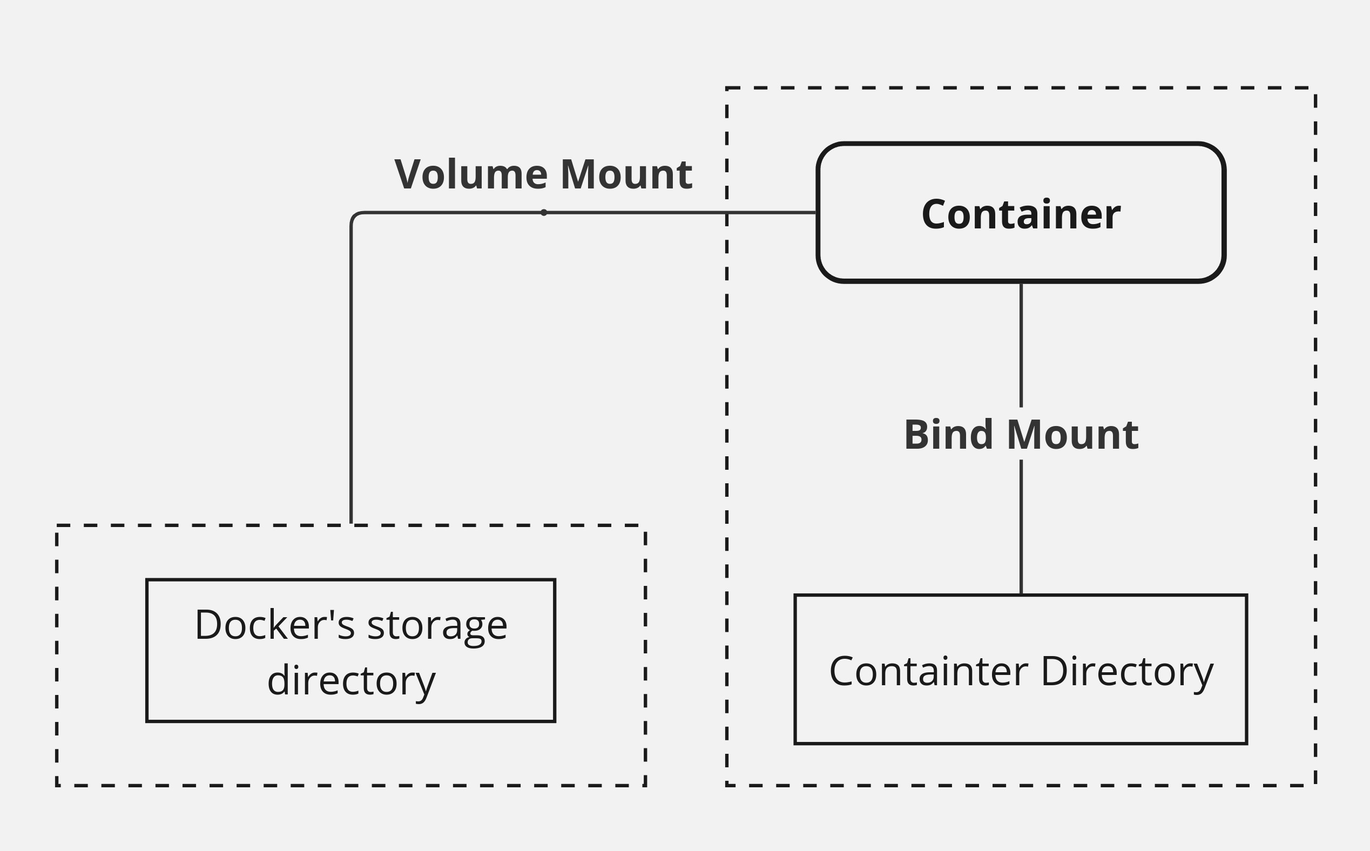
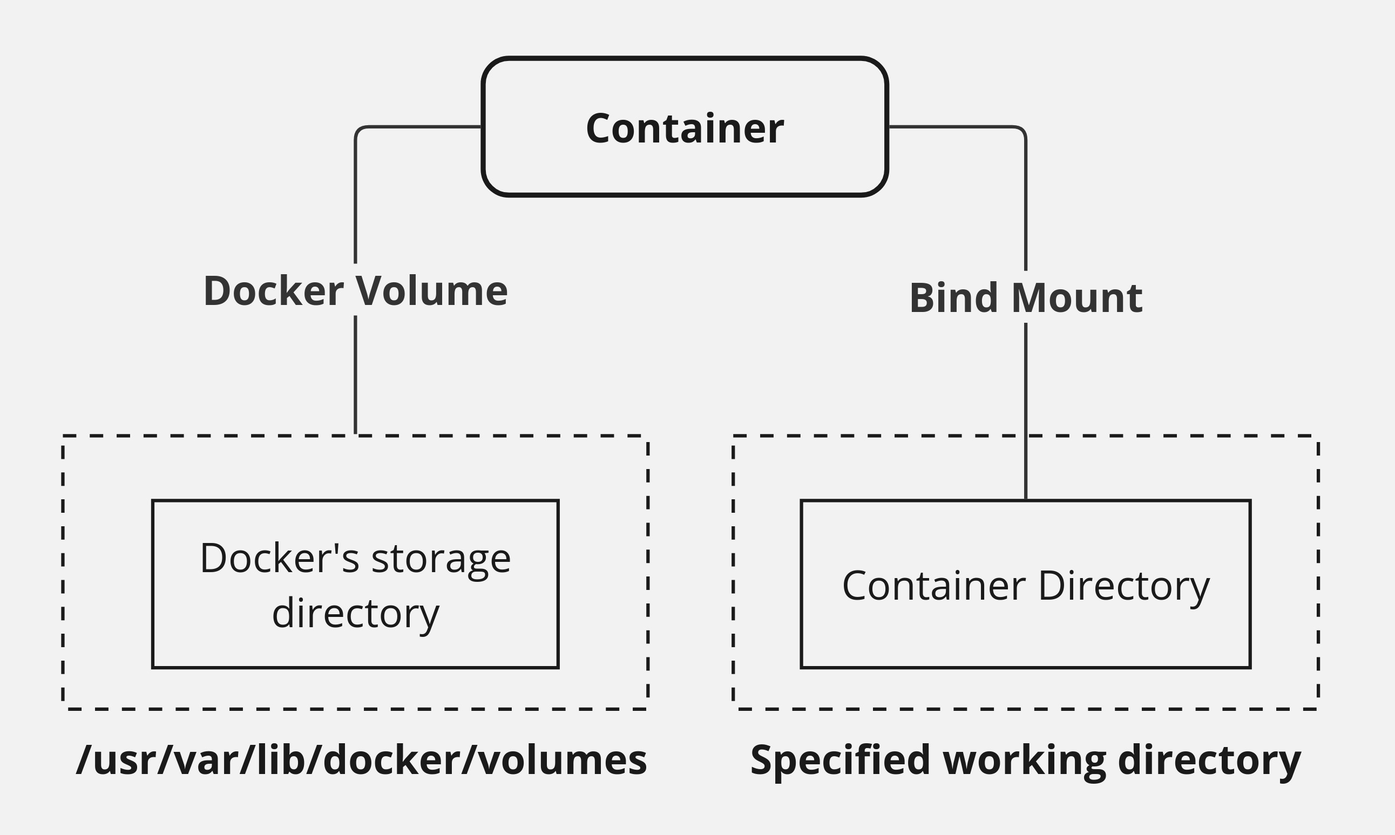
docker persistent storage context rewrite

diff --git a/public/posts/you_should_dockerize_everything_now/index.html b/public/posts/you_should_dockerize_everything_now/index.html
@@ -113,8 +113,8 @@
   "keywords": [
     "tech", "docker"
   ],
-  "articleBody": " After a few days of playing around with Docker. I think my experience on this platform would be somewhat useful to share.\nThis serve as a guide into running simple Docker containers. It’s not a comprehensive guide but rather a detailed one.\nWhat is Docker? Docker is an open-source platform designed to automate the deployment, scaling and management of applications in lightweight Containers - a form of virtualization that allows the packaging of an application along with all of its dependencies into a single package that can run seamlessly across machines with different hardware configurations.\nWhy Docker? I personally find these to be the biggest benefits when using Docker.\nConsistent Environment: Using containers, Docker ensures that if an application works on the development machine, it can work the same way in other machines. Help avoiding the classic situation “But…It worked on my machine!”. Compared to Virtual Machines (VM): Docker containers are much more lightweight and easy to manage than VMs because they somewhat represent a stripped down version of a VM while sharing the host OS kernel instead of using their own, mitigating the overhead. Version control and rollbacks: Docker images can be versioned, allowing developers to track changes and roll back to previous versions if something goes wrong. Some situations you can use Docker Development environment consistency: let’s say you’re working on a group project that requires specific versions of programming languages, databases or other dependencies. Instead of installing everything directly on your system, you can use Docker to create a consistent environment that can be reproduced and shared with others effortlessly. It prevents “works on my machine” issues. Playing around with new technologies: You want to try out a new batabase, web server or a python module. Instead of installing it directly on your system, you can test it out in a Docker container. This avoids cluttering your system with new software that you’re not sure if you would ever need again, and allows for easy cleanup after finish experimenting. Running multiple projects without conflicting dependencies: You have two different projects that require different versions of Python. Docker can wrap them up in their own environment and neither will conflict with each other. The Architecture In order to run a basic application inside a Docker container, 3 of these concepts are involved: Dockerfile - the blueprint that tells Docker how to handle you applications, including installing dependencies and configure its behaviour. Docker image - the executable package, built from Dockerfile that contains everything your application need to get runnning. Docker container - the runtime instance, when you run the Docker image, it creates a container, which is the actual environment where your application runs. Additionally:\nDocker Registry is a service that stores Docker Images. Docker Hub is the default public registry, but you can also set up private registries for internal use.\nDocker Compose is a tool for defining and running multi-container Docker applications. With Compose, you use a YAML file to configure your application’s services and behaviours. Then, with a single command, you create and start all the services from your configuration.\nHow it works Docker uses a client-server architecture. The Docker client talks to the Docker daemon, which does the heavy lifting of building, running, and distributing your Docker containers.\nClient side User interacts with Docker CLI or Docker Desktop, were they can build, run, and manage Docker containers. Server side Commands from Client side will be received and processed by Docker API, which is a RESTful API that provides a way for clients to communicate with the Docker Daemon - a running service of Docker, goes by the name of dockerd. Docker Daemon is responsible for creating, running, and managing Docker containers. Start Docking We will learn how to dockerize a simple python program and deploy its container.\nCreate a structural directory for building Docker image Below serves as a simple file organization for Docker to build from your source.\napplication_name/ ├── Dockerfile ├── requirements.txt └── source.py In which:\nDockerfile: It contains instructions for Docker engine to start installing dependencies and building your containers. The file name is mandatory and case sensitive, make sure to create the file with the exact name, or else Docker won’t recognize it as a Dockerfile. requirements.txt: is a simple text file listing the names of required Python libraries. source.py: contains the source code for your Python application. [source.py] Putting code into your Python application You can use your own code and libraries, or use this sample code:\n1 2 3 4 5 6 7 8 9 from sympy import Matrix, pprint def multiplyMatrix(A, B): if len(A[0]) != len(B): return None return [[sum(a*b for a,b in zip(A_row,B_col)) for B_col in zip(*B)] for A_row in A] matrix = Matrix(multiplyMatrix([[1,2],[3,4]],[[1,2],[3,4]])) pprint(matrix) Import Matrix and pprint from sympy to convert a 2D array into matrix and print it. Define the function multiplyMatrix(). Create a matrix object which holds the value of 2 matrices multiplied with each other. Use pprint() to print out the matrix into the console. [requirements.txt] List your application’s dependencies From the above python script, sympy is required to run the program. In order for Docker to install dependencies, we need to put the names of those libraries into requirements.txt:\nsympy Simple as that, we have included everything our script need to run.\nIn Python, installing multiple libraries can be done by using pip on a text file that lists the included libraries, each sitting on their own line.\n[Dockerfile] Configure Dockerfile behaviour Now that we have setup everything. It’s time to configure how Docker will build your application into an image.\nFROM python:latest WORKDIR /app COPY requirements.txt . RUN pip install --no-cache-dir -r requirements.txt COPY . . CMD [\"python\", \"source.py\"] FROM: specifies the base image to build upon. In this case, we use the latest Python image. This line will pull the latest Python image from Docker Hub to build everything else. The base image is the starting point for the Dockerfile. It can be any image available on Docker Hub or a custom image you have created. WORKDIR: sets the working directory inside the container. By default, we use /app. COPY: copies files from the host machine to the container. We copy requirements.txt to the working directory. RUN: executes a command inside the container. Here, we install the dependencies listed in requirements.txt by using Python’s package manager pip. COPY . .: copies the rest of the files from the host machine to the container. CMD: specifies the command to run when the container starts. In this case, we run the Python script source.py. Building Docker image After setting up the Dockerfile, we can now build the Docker image.\nYour terminal location must be in the same directory where the file Dockerfile is located so Docker engine can detect that file and executing the process.\ndocker build -t : . -t :: This flags tags the image with a name and an optional tag. The tag is used to differentiate between different versions of the same image. If not specified, Docker will default to latest. .: specifies the build context. Docker will look for the Dockerfile in the current directory. Additionally, you can add --no-cache to the build command to force Docker to rebuild the image from scratch if the previously built image is broken during the process. If not specified, Docker will reuse the cache to speed up the build process.\nExample:\ndocker build -t matrix-multiplication:1.0 --no-cache . Once the build is complete, you can verify that the image has been created by listing all Docker images:\ndocker images The result should be similar to this:\n\u003e docker images REPOSITORY TAG IMAGE ID CREATED SIZE matrix-multiplication 1.0 7565e3e77b8a 11 seconds ago 1.1GB Deploying a Container from the built Image To deploy the newly built image, simply use docker run command:\ndocker run You can replace with which is the ID of the image listed in docker images command. Example:\ndocker run matrix-multiplication You can also choose to run a specific version of your image by adding to the image name, similar to the build command.\nTo see which container is running, use:\ndocker ps Or to see all containers created, including those that have stopped, use:\ndocker ps -a Docker Container Data In order to store data, a Docker container has 2 ways to mount its working directory to the host machine’s filesystem: Bind Mount and Volume Mount.\nBind Mount is the default method of mounting for containers. It links a directory in the container to a directory on the host machine. This allows the container to read and write data to the host machine’s filesystem.\nDue to Docker containers being ephemeral, which mean they are designed to be disposable, data stored with Bind Mount method will be deleted after a container is stopped.\nVolume Mount is a better way to persist data. It creates a new directory within Docker’s storage directory on the host machine, and mounts it to the container. This way, the data is stored in the host machine’s filesystem, but is managed by Docker and will not be deleted when the container ends its cycle.\nTo create a Docker Volume, you can use the command:\ndocker volume create To see created Volumes, use:\ndocker volume ls To remove a volume, use:\ndocker volume rm More Docker commands docker start : starts a stopped container. You can find the container ID by using docker ps.\ndocker stop : stops a running container.\ndocker attach : attaches your terminal to a running container.\ndocker rm : removes a container from your local machine.\ndocker rmi or docker rmi : removes an image from your local machine.\nMore docker run tags -d: enables docker to run in detach mode, meaning the container will run in the background. This is useful for running services or applications that you want to keep running in the background while continue to use your terminal.\n--name : assign a name of choice to the container.\n-p :: maps a port from the host machine to the container. This is useful when you want to access a service running inside the container from the host machine.\nExample: -p 8080:80 maps port 8080 on the host to port 80 in the container. --rm: Automatically removes the container when it exits. Useful for running short-lived containers.\n-it: combines 2 flags:\n-i(interactive): keeps STDIN open even if not attached to the container. Useful for interacting with a container in real time, such as entering commands or running a shell inside the container. -t(TTY): allocates a pseudo-TTY (a terminal interface). This makes the container behave like a terminal session, allowing you to interact with it as if it were a CLI(command line interface). Combining -i and -t allows you to run a container in interactive mode with a TTY. It’s equivalent to saying “keep the input open (-i) and give me a terminal interface (-t)”. -v :: mounts a volume from the host machine to the container.\nExample: -v /path/on/host:/path/on/container mounts the /path/on/host directory on the host to the /path/on/container directory in the container. ",
-  "wordCount" : "1853",
+  "articleBody": " After a few days of playing around with Docker. I think my experience on this platform would be somewhat useful to share.\nThis serve as a guide into running simple Docker containers. It’s not a comprehensive guide but rather a detailed one.\nWhat is Docker? Docker is an open-source platform designed to automate the deployment, scaling and management of applications in lightweight Containers - a form of virtualization that allows the packaging of an application along with all of its dependencies into a single package that can run seamlessly across machines with different hardware configurations.\nWhy Docker? I personally find these to be the biggest benefits when using Docker.\nConsistent Environment: Using containers, Docker ensures that if an application works on the development machine, it can work the same way in other machines. Help avoiding the classic situation “But…It worked on my machine!”. Compared to Virtual Machines (VM): Docker containers are much more lightweight and easy to manage than VMs because they somewhat represent a stripped down version of a VM while sharing the host OS kernel instead of using their own, mitigating the overhead. Version control and rollbacks: Docker images can be versioned, allowing developers to track changes and roll back to previous versions if something goes wrong. Some situations you can use Docker Development environment consistency: let’s say you’re working on a group project that requires specific versions of programming languages, databases or other dependencies. Instead of installing everything directly on your system, you can use Docker to create a consistent environment that can be reproduced and shared with others effortlessly. It prevents “works on my machine” issues. Playing around with new technologies: You want to try out a new batabase, web server or a python module. Instead of installing it directly on your system, you can test it out in a Docker container. This avoids cluttering your system with new software that you’re not sure if you would ever need again, and allows for easy cleanup after finish experimenting. Running multiple projects without conflicting dependencies: You have two different projects that require different versions of Python. Docker can wrap them up in their own environment and neither will conflict with each other. The Architecture In order to run a basic application inside a Docker container, 3 of these concepts are involved: Dockerfile - the blueprint that tells Docker how to handle you applications, including installing dependencies and configure its behaviour. Docker image - the executable package, built from Dockerfile that contains everything your application need to get runnning. Docker container - the runtime instance, when you run the Docker image, it creates a container, which is the actual environment where your application runs. Additionally:\nDocker Registry is a service that stores Docker Images. Docker Hub is the default public registry, but you can also set up private registries for internal use.\nDocker Compose is a tool for defining and running multi-container Docker applications. With Compose, you use a YAML file to configure your application’s services and behaviours. Then, with a single command, you create and start all the services from your configuration.\nHow it works Docker uses a client-server architecture. The Docker client talks to the Docker daemon, which does the heavy lifting of building, running, and distributing your Docker containers.\nClient side User interacts with Docker CLI or Docker Desktop, were they can build, run, and manage Docker containers. Server side Commands from Client side will be received and processed by Docker API, which is a RESTful API that provides a way for clients to communicate with the Docker Daemon - a running service of Docker, goes by the name of dockerd. Docker Daemon is responsible for creating, running, and managing Docker containers. Start Docking We will learn how to dockerize a simple python program and deploy its container.\nCreate a structural directory for building Docker image Below serves as a simple file organization for Docker to build from your source.\napplication_name/ ├── Dockerfile ├── requirements.txt └── source.py In which:\nDockerfile: It contains instructions for Docker engine to start installing dependencies and building your containers. The file name is mandatory and case sensitive, make sure to create the file with the exact name, or else Docker won’t recognize it as a Dockerfile. requirements.txt: is a simple text file listing the names of required Python libraries. source.py: contains the source code for your Python application. [source.py] Putting code into your Python application You can use your own code and libraries, or use this sample code:\n1 2 3 4 5 6 7 8 9 from sympy import Matrix, pprint def multiplyMatrix(A, B): if len(A[0]) != len(B): return None return [[sum(a*b for a,b in zip(A_row,B_col)) for B_col in zip(*B)] for A_row in A] matrix = Matrix(multiplyMatrix([[1,2],[3,4]],[[1,2],[3,4]])) pprint(matrix) Import Matrix and pprint from sympy to convert a 2D array into matrix and print it. Define the function multiplyMatrix(). Create a matrix object which holds the value of 2 matrices multiplied with each other. Use pprint() to print out the matrix into the console. [requirements.txt] List your application’s dependencies From the above python script, sympy is required to run the program. In order for Docker to install dependencies, we need to put the names of those libraries into requirements.txt:\nsympy Simple as that, we have included everything our script need to run.\nIn Python, installing multiple libraries can be done by using pip on a text file that lists the included libraries, each sitting on their own line.\n[Dockerfile] Configure Dockerfile behaviour Now that we have setup everything. It’s time to configure how Docker will build your application into an image.\nFROM python:latest WORKDIR /app COPY requirements.txt . RUN pip install --no-cache-dir -r requirements.txt COPY . . CMD [\"python\", \"source.py\"] FROM: specifies the base image to build upon. In this case, we use the latest Python image. This line will pull the latest Python image from Docker Hub to build everything else. The base image is the starting point for the Dockerfile. It can be any image available on Docker Hub or a custom image you have created. WORKDIR: sets the working directory inside the container. By default, we use /app. COPY: copies files from the host machine to the container. We copy requirements.txt to the working directory. RUN: executes a command inside the container. Here, we install the dependencies listed in requirements.txt by using Python’s package manager pip. COPY . .: copies the rest of the files from the host machine to the container. CMD: specifies the command to run when the container starts. In this case, we run the Python script source.py. Building Docker image After setting up the Dockerfile, we can now build the Docker image.\nYour terminal location must be in the same directory where the file Dockerfile is located so Docker engine can detect that file and executing the process.\ndocker build -t : . -t :: This flags tags the image with a name and an optional tag. The tag is used to differentiate between different versions of the same image. If not specified, Docker will default to latest. .: specifies the build context. Docker will look for the Dockerfile in the current directory. Additionally, you can add --no-cache to the build command to force Docker to rebuild the image from scratch if the previously built image is broken during the process. If not specified, Docker will reuse the cache to speed up the build process.\nExample:\ndocker build -t matrix-multiplication:1.0 --no-cache . Once the build is complete, you can verify that the image has been created by listing all Docker images:\ndocker images The result should be similar to this:\n\u003e docker images REPOSITORY TAG IMAGE ID CREATED SIZE matrix-multiplication 1.0 7565e3e77b8a 11 seconds ago 1.1GB Deploying a Container from the built Image To deploy the newly built image, simply use docker run command:\ndocker run You can replace with which is the ID of the image listed in docker images command. Example:\ndocker run matrix-multiplication You can also choose to run a specific version of your image by adding to the image name, similar to the build command.\nTo see which container is running, use:\ndocker ps Or to see all containers created, including those that have stopped, use:\ndocker ps -a Docker Container Data Due to Docker containers being ephemeral, which mean they are designed to be disposable, data created withing the process of running will be delete after a container ends its cycle.\nThere will be situations where you need data persistence. In order to do so, a Docker container has 2 ways to mount its working directory to the host machine’s filesystem: Bind Mount and Docker Volume.\nThe differences It may seems like both methods serve the same purpose, but there are some differences between them:\nFeature Bind Mount Docker Volume Binding method Links a directory in the container to specified directory on the host machine Links a directory in the container to a Docker Volume (in Linux, they are usually located at /var/lib/docker/volumes/) Data Persistence Data is stored in the host machine’s filesystem Data is stored in the Docker Volume Security Less secure as it can access the host machine’s filesystem, any changes made to the container directory will be seen directly on the filesystem More secure as it is abstracted away from the host machine’s filesystem Use case Useful for development purpose as binded data can be modified outside of the container Useful for production purpose as it is more secure and isolated To create a Docker Volume, you can use the command:\ndocker volume create To see created Volumes, use:\ndocker volume ls To see info about a Volume, use:\ndocker volume inspect To remove a volume, use:\ndocker volume rm More Docker commands docker start : starts a stopped container. You can find the container ID by using docker ps.\ndocker stop : stops a running container.\ndocker attach : attaches your terminal to a running container.\ndocker rm : removes a container from your local machine.\ndocker rmi or docker rmi : removes an image from your local machine.\nMore docker run tags -d: enables docker to run in detach mode, meaning the container will run in the background. This is useful for running services or applications that you want to keep running in the background while continue to use your terminal.\n--name : assign a name of choice to the container.\n-p :: maps a port from the host machine to the container. This is useful when you want to access a service running inside the container from the host machine.\nExample: -p 8080:80 maps port 8080 on the host to port 80 in the container. --rm: Automatically removes the container when it exits. Useful for running short-lived containers.\n-it: combines 2 flags:\n-i(interactive): keeps STDIN open even if not attached to the container. Useful for interacting with a container in real time, such as entering commands or running a shell inside the container. -t(TTY): allocates a pseudo-TTY (a terminal interface). This makes the container behave like a terminal session, allowing you to interact with it as if it were a CLI(command line interface). Combining -i and -t allows you to run a container in interactive mode with a TTY. It’s equivalent to saying “keep the input open (-i) and give me a terminal interface (-t)”. -v :: mounts a volume from the host machine to the container.\nExample: -v /path/on/host:/path/on/container mounts the /path/on/host directory on the host to the /path/on/container directory in the container. ",
+  "wordCount" : "1920",
   "inLanguage": "en",
   "image":"https://tiamatt.dev/docker101/docker101.jpg","datePublished": "2024-09-04T08:02:50+07:00",
   "dateModified": "2024-09-04T08:02:50+07:00",
@@ -204,7 +204,7 @@
     <h1 class="post-title entry-hint-parent">
       You should Dockerize everything, NOW!
     </h1>
-    <div class="post-meta"><span title='2024-09-04 08:02:50 +0700 +07'>September 4, 2024</span>&nbsp;·&nbsp;9 min&nbsp;·&nbsp;T
+    <div class="post-meta"><span title='2024-09-04 08:02:50 +0700 +07'>September 4, 2024</span>&nbsp;·&nbsp;10 min&nbsp;·&nbsp;T
 
 </div>
   </header> 
@@ -259,7 +259,13 @@
                         </ul>
                     </li>
                     <li>
-                        <a href="#docker-container-data" aria-label="Docker Container Data">Docker Container Data</a></li>
+                        <a href="#docker-container-data" aria-label="Docker Container Data">Docker Container Data</a><ul>
+                            <ul>
+                            
+                    <li>
+                        <a href="#the-differences" aria-label="The differences">The differences</a></li></ul>
+                        </ul>
+                    </li>
                     <li>
                         <a href="#more-docker-commands" aria-label="More Docker commands">More Docker commands</a></li>
                     <li>
@@ -500,18 +506,51 @@ Example:</p>
 <div class="highlight"><pre tabindex="0" style="color:#f8f8f2;background-color:#272822;-moz-tab-size:4;-o-tab-size:4;tab-size:4;"><code class="language-bash" data-lang="bash"><span style="display:flex;"><span>docker ps -a
 </span></span></code></pre></div><hr>
 <h1 id="docker-container-data">Docker Container Data<a hidden class="anchor" aria-hidden="true" href="#docker-container-data">#</a></h1>
-<p>In order to store data, a Docker container has 2 ways to mount its working directory to the host machine&rsquo;s filesystem: <strong>Bind Mount</strong> and <strong>Volume Mount</strong>.</p>
+<blockquote>
+<p>Due to Docker containers being <em>ephemeral</em>, which mean they are designed to be disposable, data created withing the process of running will be delete after a container ends its cycle.</p>
+</blockquote>
+<p>There will be situations where you need data persistence. In order to do so, a Docker container has 2 ways to mount its working directory to the host machine&rsquo;s filesystem: <strong>Bind Mount</strong> and <strong>Docker Volume</strong>.</p>
 <p><img loading="lazy" src="/docker101/container_data.jpg" alt="container_data"  />
 </p>
-<p><strong>Bind Mount</strong> is the default method of mounting for containers. It links a directory <strong>in the container</strong> to a directory on the <strong>host machine</strong>. This allows the container to read and write data to the host machine&rsquo;s filesystem.</p>
-<blockquote>
-<p>Due to Docker containers being <em>ephemeral</em>, which mean they are designed to be disposable, data stored with <strong>Bind Mount</strong> method will be deleted after a container is stopped.</p>
-</blockquote>
-<p><strong>Volume Mount</strong> is a better way to persist data. It creates a new directory within Docker&rsquo;s storage directory on the host machine, and mounts it to the container. This way, the data is stored in the host machine&rsquo;s filesystem, but is managed by Docker and will not be deleted when the container ends its cycle.</p>
+<h3 id="the-differences">The differences<a hidden class="anchor" aria-hidden="true" href="#the-differences">#</a></h3>
+<p>It may seems like both methods serve the same purpose, but there are some differences between them:</p>
+<table>
+  <thead>
+      <tr>
+          <th style="text-align: left">Feature</th>
+          <th style="text-align: left">Bind Mount</th>
+          <th style="text-align: left">Docker Volume</th>
+      </tr>
+  </thead>
+  <tbody>
+      <tr>
+          <td style="text-align: left"><strong>Binding method</strong></td>
+          <td style="text-align: left">Links a directory <strong>in the container</strong> to specified directory on the <strong>host machine</strong></td>
+          <td style="text-align: left">Links a directory <strong>in the container</strong> to a <strong>Docker Volume</strong> (in Linux, they are usually located at <code>/var/lib/docker/volumes/</code>)</td>
+      </tr>
+      <tr>
+          <td style="text-align: left"><strong>Data Persistence</strong></td>
+          <td style="text-align: left">Data is stored in the <strong>host machine</strong>&rsquo;s filesystem</td>
+          <td style="text-align: left">Data is stored in the <strong>Docker Volume</strong></td>
+      </tr>
+      <tr>
+          <td style="text-align: left"><strong>Security</strong></td>
+          <td style="text-align: left">Less secure as it can access the host machine&rsquo;s filesystem, any changes made to the container directory will be seen directly on the filesystem</td>
+          <td style="text-align: left">More secure as it is abstracted away from the host machine&rsquo;s filesystem</td>
+      </tr>
+      <tr>
+          <td style="text-align: left"><strong>Use case</strong></td>
+          <td style="text-align: left">Useful for development purpose as binded data can be modified outside of the container</td>
+          <td style="text-align: left">Useful for production purpose as it is more secure and isolated</td>
+      </tr>
+  </tbody>
+</table>
 <p>To create a <strong>Docker Volume</strong>, you can use the command:</p>
 <div class="highlight"><pre tabindex="0" style="color:#f8f8f2;background-color:#272822;-moz-tab-size:4;-o-tab-size:4;tab-size:4;"><code class="language-bash" data-lang="bash"><span style="display:flex;"><span>docker volume create &lt;volume_name&gt;
 </span></span></code></pre></div><p>To see created Volumes, use:</p>
 <div class="highlight"><pre tabindex="0" style="color:#f8f8f2;background-color:#272822;-moz-tab-size:4;-o-tab-size:4;tab-size:4;"><code class="language-bash" data-lang="bash"><span style="display:flex;"><span>docker volume ls
+</span></span></code></pre></div><p>To see info about a Volume, use:</p>
+<div class="highlight"><pre tabindex="0" style="color:#f8f8f2;background-color:#272822;-moz-tab-size:4;-o-tab-size:4;tab-size:4;"><code class="language-bash" data-lang="bash"><span style="display:flex;"><span>docker volume inspect &lt;volume_name&gt;
 </span></span></code></pre></div><p>To remove a volume, use:</p>
 <div class="highlight"><pre tabindex="0" style="color:#f8f8f2;background-color:#272822;-moz-tab-size:4;-o-tab-size:4;tab-size:4;"><code class="language-bash" data-lang="bash"><span style="display:flex;"><span>docker volume rm &lt;volume_name&gt;
 </span></span></code></pre></div><hr>

diff --git a/public/archives/index.html b/public/archives/index.html
@@ -209,7 +209,7 @@
       <div class="archive-entry">
         <h3 class="archive-entry-title entry-hint-parent">You should Dockerize everything, NOW!
         </h3>
-        <div class="archive-meta"><span title='2024-09-04 08:02:50 +0700 +07'>September 4, 2024</span>&nbsp;·&nbsp;9 min&nbsp;·&nbsp;T</div>
+        <div class="archive-meta"><span title='2024-09-04 08:02:50 +0700 +07'>September 4, 2024</span>&nbsp;·&nbsp;10 min&nbsp;·&nbsp;T</div>
         <a class="entry-link" aria-label="post link to You should Dockerize everything, NOW!" href="https://tiamatt.dev/posts/you_should_dockerize_everything_now/"></a>
       </div>
     </div>

diff --git a/public/tags/docker/index.html b/public/tags/docker/index.html
@@ -156,7 +156,7 @@
   <div class="entry-content">
     <p>Not at all a sophisticated guide on using Docker.</p>
   </div>
-  <footer class="entry-footer"><span title='2024-09-04 08:02:50 +0700 +07'>September 4, 2024</span>&nbsp;·&nbsp;9 min&nbsp;·&nbsp;T</footer>
+  <footer class="entry-footer"><span title='2024-09-04 08:02:50 +0700 +07'>September 4, 2024</span>&nbsp;·&nbsp;10 min&nbsp;·&nbsp;T</footer>
   <a class="entry-link" aria-label="post link to You should Dockerize everything, NOW!" href="https://tiamatt.dev/posts/you_should_dockerize_everything_now/"></a>
 </article>
     </main>

diff --git a/public/index.html b/public/index.html
@@ -209,7 +209,7 @@
   <div class="entry-content">
     <p>Not at all a sophisticated guide on using Docker.</p>
   </div>
-  <footer class="entry-footer"><span title='2024-09-04 08:02:50 +0700 +07'>September 4, 2024</span>&nbsp;·&nbsp;9 min&nbsp;·&nbsp;T</footer>
+  <footer class="entry-footer"><span title='2024-09-04 08:02:50 +0700 +07'>September 4, 2024</span>&nbsp;·&nbsp;10 min&nbsp;·&nbsp;T</footer>
   <a class="entry-link" aria-label="post link to You should Dockerize everything, NOW!" href="https://tiamatt.dev/posts/you_should_dockerize_everything_now/"></a>
 </article>
 

diff --git a/public/posts/index.html b/public/posts/index.html
@@ -171,7 +171,7 @@
   <div class="entry-content">
     <p>Not at all a sophisticated guide on using Docker.</p>
   </div>
-  <footer class="entry-footer"><span title='2024-09-04 08:02:50 +0700 +07'>September 4, 2024</span>&nbsp;·&nbsp;9 min&nbsp;·&nbsp;T</footer>
+  <footer class="entry-footer"><span title='2024-09-04 08:02:50 +0700 +07'>September 4, 2024</span>&nbsp;·&nbsp;10 min&nbsp;·&nbsp;T</footer>
   <a class="entry-link" aria-label="post link to You should Dockerize everything, NOW!" href="https://tiamatt.dev/posts/you_should_dockerize_everything_now/"></a>
 </article>
 

diff --git a/public/tags/tech/index.html b/public/tags/tech/index.html
@@ -156,7 +156,7 @@
   <div class="entry-content">
     <p>Not at all a sophisticated guide on using Docker.</p>
   </div>
-  <footer class="entry-footer"><span title='2024-09-04 08:02:50 +0700 +07'>September 4, 2024</span>&nbsp;·&nbsp;9 min&nbsp;·&nbsp;T</footer>
+  <footer class="entry-footer"><span title='2024-09-04 08:02:50 +0700 +07'>September 4, 2024</span>&nbsp;·&nbsp;10 min&nbsp;·&nbsp;T</footer>
   <a class="entry-link" aria-label="post link to You should Dockerize everything, NOW!" href="https://tiamatt.dev/posts/you_should_dockerize_everything_now/"></a>
 </article>
 

diff --git a/content/posts/you_should_dockerize_everything_now.md b/content/posts/you_should_dockerize_everything_now.md
@@ -176,15 +176,22 @@ docker ps -a
 
 # Docker Container Data
 
-In order to store data, a Docker container has 2 ways to mount its working directory to the host machine's filesystem: **Bind Mount** and **Volume Mount**.
+> Due to Docker containers being *ephemeral*, which mean they are designed to be disposable, data created withing the process of running will be delete after a container ends its cycle.
+
+There will be situations where you need data persistence. In order to do so, a Docker container has 2 ways to mount its working directory to the host machine's filesystem: **Bind Mount** and **Docker Volume**.
 
 ![container_data](/docker101/container_data.jpg)
 
-**Bind Mount** is the default method of mounting for containers. It links a directory **in the container** to a directory on the **host machine**. This allows the container to read and write data to the host machine's filesystem.
+### The differences
 
-> Due to Docker containers being *ephemeral*, which mean they are designed to be disposable, data stored with **Bind Mount** method will be deleted after a container is stopped.
+It may seems like both methods serve the same purpose, but there are some differences between them:
 
-**Volume Mount** is a better way to persist data. It creates a new directory within Docker's storage directory on the host machine, and mounts it to the container. This way, the data is stored in the host machine's filesystem, but is managed by Docker and will not be deleted when the container ends its cycle.
+| Feature | Bind Mount | Docker Volume |
+|:--------|:-----------|:--------------|
+| **Binding method**| Links a directory **in the container** to specified directory on the **host machine** | Links a directory **in the container** to a **Docker Volume** (in Linux, they are usually located at `/var/lib/docker/volumes/`) |
+| **Data Persistence** | Data is stored in the **host machine**'s filesystem | Data is stored in the **Docker Volume** |
+| **Security** | Less secure as it can access the host machine's filesystem, any changes made to the container directory will be seen directly on the filesystem | More secure as it is abstracted away from the host machine's filesystem |
+| **Use case** | Useful for development purpose as binded data can be modified outside of the container | Useful for production purpose as it is more secure and isolated |
 
 To create a **Docker Volume**, you can use the command:
 ```bash
@@ -193,6 +200,10 @@ docker volume create <volume_name>
 To see created Volumes, use:
 ```bash
 docker volume ls
+```
+To see info about a Volume, use:
+```bash
+docker volume inspect <volume_name>
 ```
 To remove a volume, use:
 ```bash
